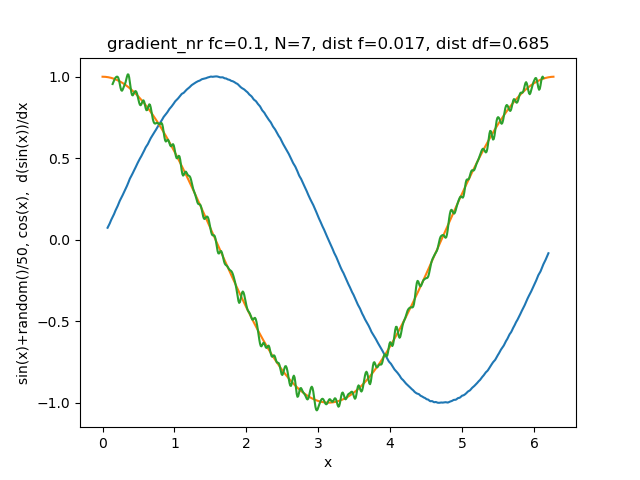
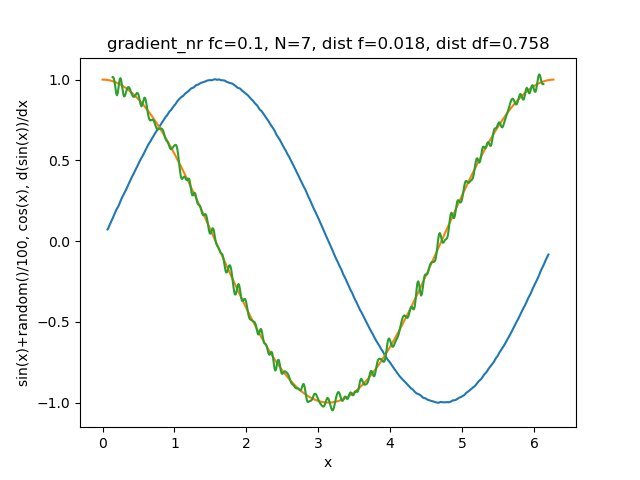
Update doc.

diff --git a/doc/figures/fig_9_12_lowpass_mt.py b/doc/figures/fig_9_12_lowpass_mt.py
@@ -36,19 +36,16 @@ z = np.array([math.cos(xi) for xi in x])
 
 r = np.array([yi + (random.random() - 0.5) * noise for yi in y])
 dist_r = distance(y, r)
-
 drdx = hdfg.gradient_nr(r, dx, fc, nfp)
 dist_d = distance(z[nfp:-nfp], drdx[nfp:-nfp])
 
 s1 = hdfl.lowpass_mt(r, '3_1')
 dist_s1 = distance(y, s1)
-
 ds1dx = hdfg.gradient_nr(s1, dx, fc, nfp)
 dist_d1 = distance(z[nnfp:-nnfp], ds1dx[nnfp:-nnfp])
 
 s2 = hdfl.lowpass_mt(s1, '3_1')
 dist_s2 = distance(y, s2)
-
 ds2dx = hdfg.gradient_nr(s2, dx, fc, nfp)
 dist_d2 = distance(z[nnfp:-nnfp], ds2dx[nnfp:-nnfp])
 
@@ -56,7 +53,7 @@ plt.title("gradient_nr fc=0.1, N=7, dist f="
           + print_to_string(dist_r) + ", dist df="
           + print_to_string(dist_d))
 plt.xlabel("x")
-plt.ylabel("sin(x)+random()/100, cos(x),  d(sin(x))/dx")
+plt.ylabel("sin(x)+random()/100, cos(x), d(sin(x))/dx")
 plt.plot(x, r, x, z, x[nfp:-nfp], drdx[nfp:-nfp])
 plt.show()
 
@@ -71,7 +68,7 @@ plt.title("gradient_nr fc=0.1, N=7, dist f="
           + print_to_string(dist_s1) + ", dist df="
           + print_to_string(dist_d1))
 plt.xlabel("x")
-plt.ylabel("sin(x)+random()/50, cos(x),  d(sin(x))/dx")
+plt.ylabel("sin(x)+random()/100, cos(x), d(sin(x))/dx")
 plt.plot(x[nfp:-nfp], s1[nfp:-nfp], x, z, x[nnfp:-nnfp], ds1dx[nnfp:-nnfp])
 plt.show()
 
@@ -79,6 +76,6 @@ plt.title("gradient_nr fc=0.1, N=7, dist f="
           + print_to_string(dist_s2) + ", dist df="
           + print_to_string(dist_d2))
 plt.xlabel("x")
-plt.ylabel("sin(x)+random()/100, cos(x),  d(sin(x))/dx")
+plt.ylabel("sin(x)+random()/100, cos(x), d(sin(x))/dx")
 plt.plot(x[nfp:-nfp], s2[nfp:-nfp], x, z, x[nnfp:-nnfp], ds2dx[nnfp:-nnfp])
 plt.show()

diff --git a/doc/figures/fig_1_4_gradient_nr.py b/doc/figures/fig_1_4_gradient_nr.py
@@ -58,12 +58,12 @@ plt.title("gradient_nr fc=0.1, N=7, dist f="
           + print_to_string(dist_r) + ", dist df="
           + print_to_string(dist_d))
 plt.xlabel("x")
-plt.ylabel("sin(x)+random()/50, cos(x),  d(sin(x))/dx")
+plt.ylabel("sin(x)+random()/100, cos(x), d(sin(x))/dx")
 plt.plot(x, r, x, z, x[7:-7], drdx_7[7:-7])
 plt.show()
 
 plt.title("NumPy gradient filter")
 plt.xlabel("x")
-plt.ylabel("sin(x)+random()/50, cos(x),  d(sin(x))/dx")
+plt.ylabel("sin(x)+random()/100, cos(x), d(sin(x))/dx")
 plt.plot(x, r, x, z, x, drdx_n)
 plt.show()

diff --git a/doc/figures/fig_5_8_lowpass_nr.py b/doc/figures/fig_5_8_lowpass_nr.py
@@ -36,13 +36,11 @@ z = np.array([math.cos(xi) for xi in x])
 
 r = np.array([yi + (random.random() - 0.5) * noise for yi in y])
 dist_r = distance(y, r)
-
 drdx = hdfg.gradient_nr(r, dx, fc, nfp)
 dist_d = distance(z[nfp:-nfp], drdx[nfp:-nfp])
 
 s1 = hdfl.lowpass_nr(r, fc, nfp)
 dist_s1 = distance(y, s1)
-
 ds1dx = hdfg.gradient_nr(s1, dx, fc, nfp)
 dist_d1 = distance(z[nnfp:-nnfp], ds1dx[nnfp:-nnfp])
 
